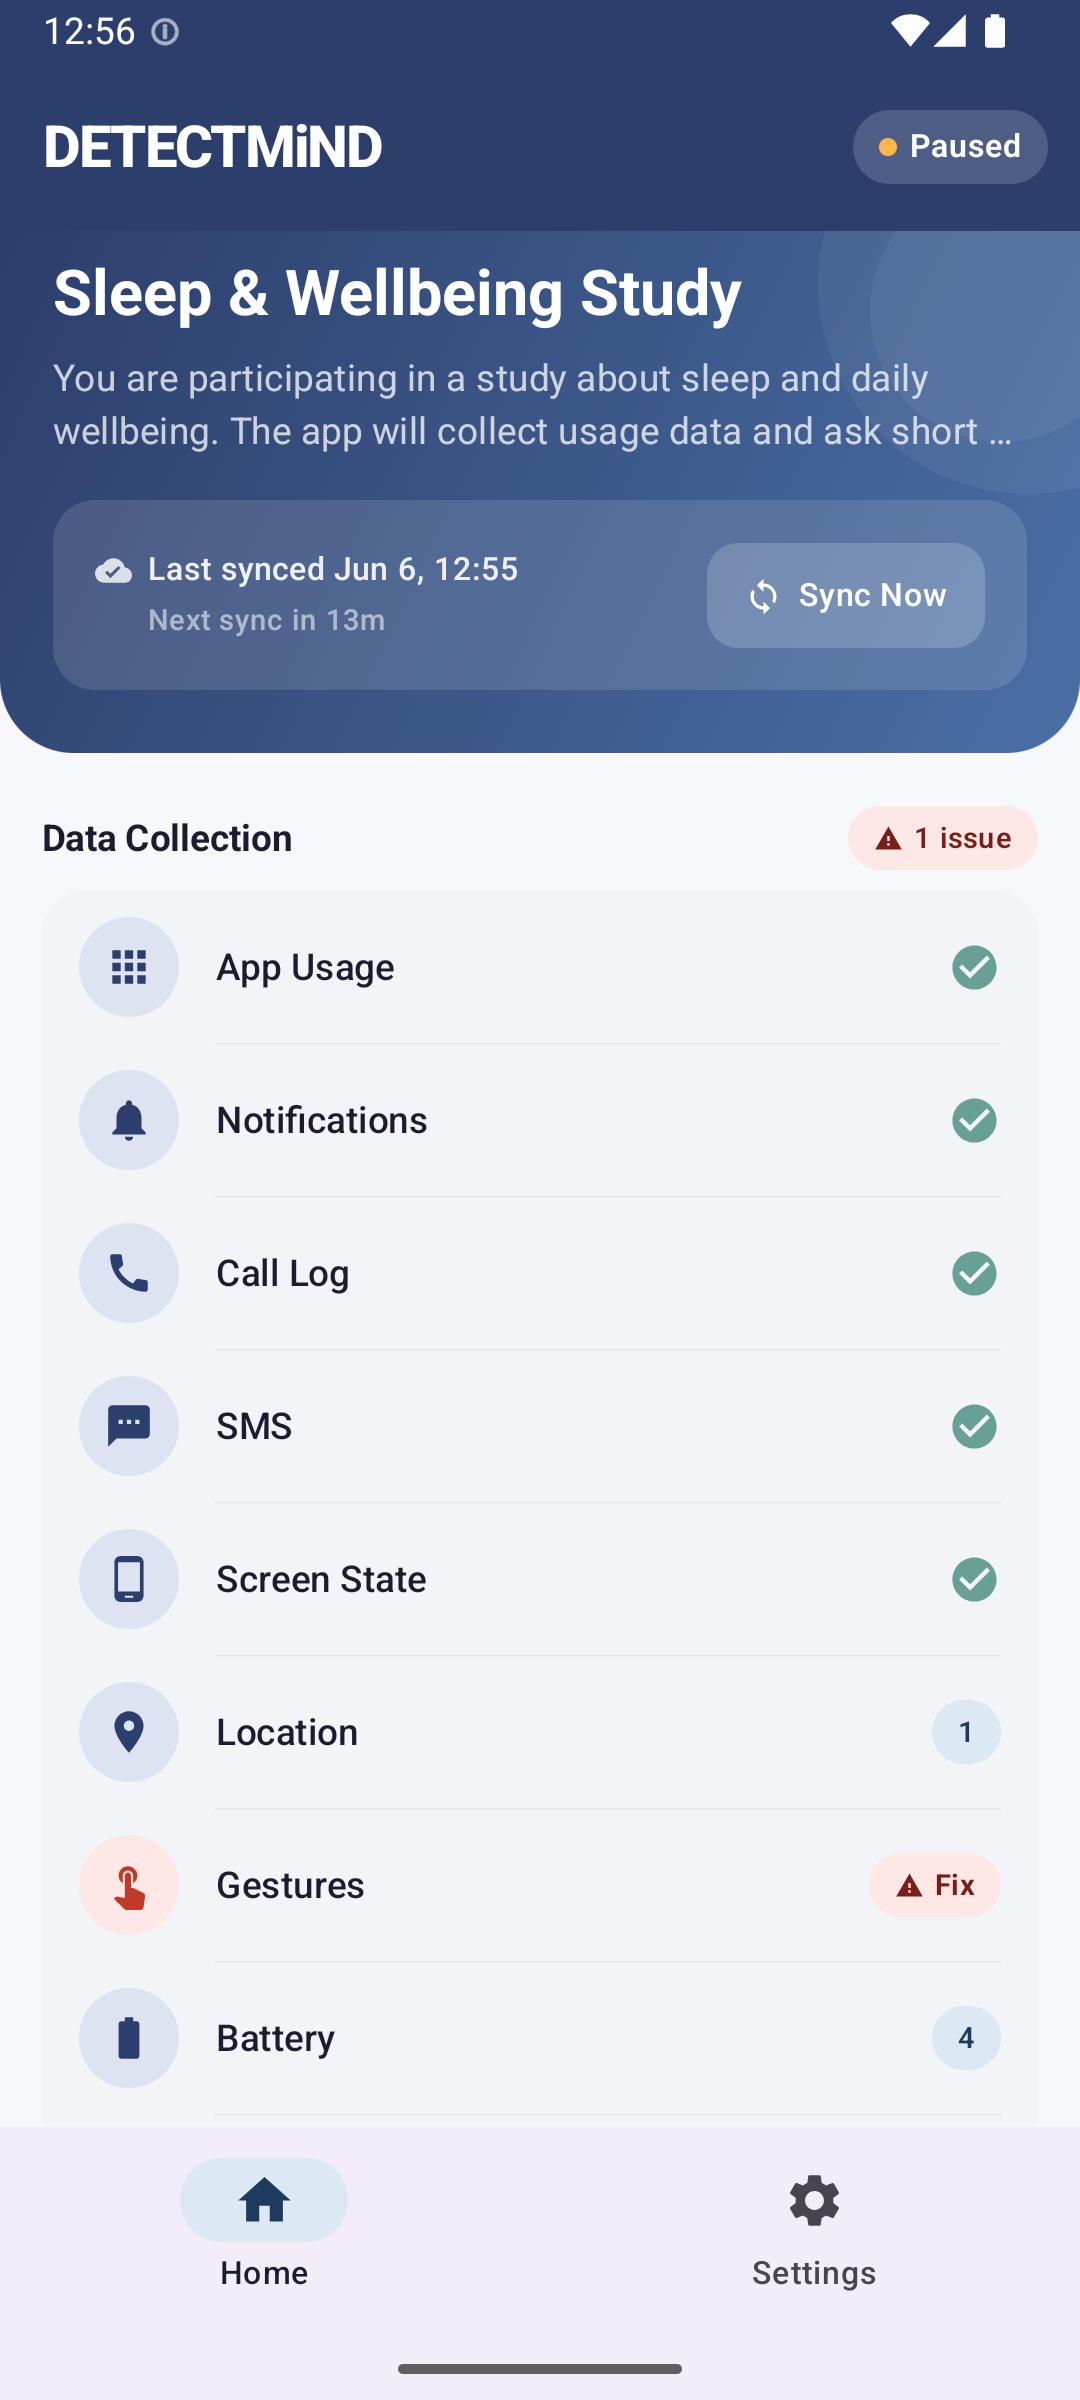
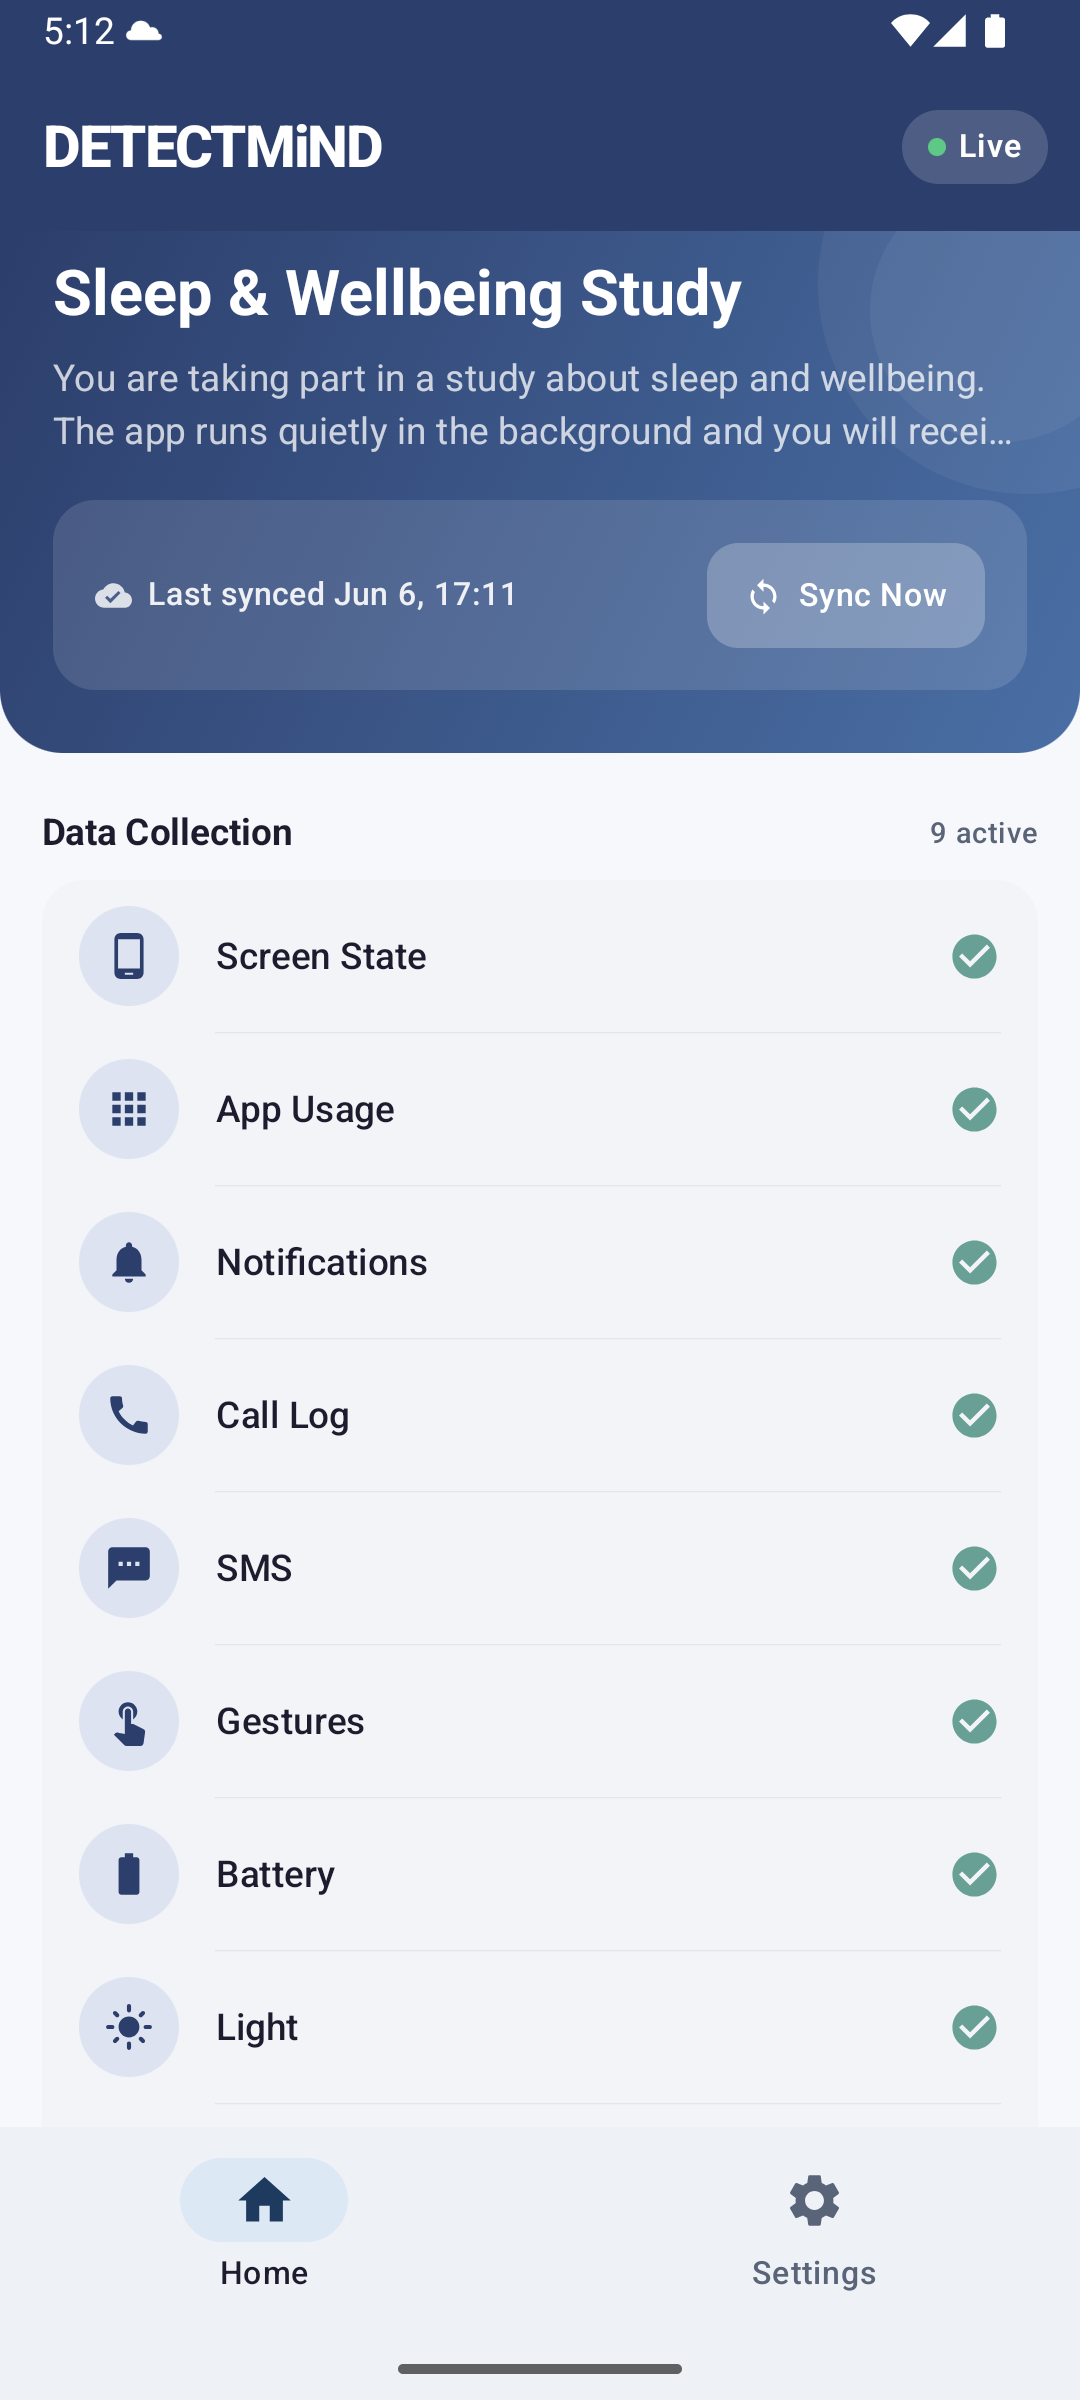
Two screenshots: participant-ID entry + fully-enrolled home view

diff --git a/docs/index.html b/docs/index.html
@@ -193,20 +193,27 @@
     font-style: italic;
   }
 
-  .screenshot {
-    margin: 28px 0 0;
-    text-align: center;
+  .shots {
+    display: grid;
+    grid-template-columns: 1fr 1fr;
+    gap: 20px;
+    margin: 24px 0 0;
   }
-  .screenshot img {
-    max-width: 260px;
+  .shot { text-align: center; }
+  .shot img {
     width: 100%;
+    max-width: 240px;
     border-radius: 18px;
     box-shadow: 0 12px 36px rgba(17, 20, 28, 0.10), 0 2px 8px rgba(17, 20, 28, 0.05);
   }
-  .screenshot-caption {
-    margin-top: 12px;
+  .shot-caption {
+    margin-top: 10px;
     color: var(--muted);
     font-size: 13px;
+    line-height: 1.4;
+  }
+  @media (max-width: 520px) {
+    .shots { grid-template-columns: 1fr; gap: 28px; }
   }
 
   .what-collected a {
@@ -282,9 +289,15 @@
   </ol>
   <p class="after">Once you're set up, the app runs quietly in the background. You don't need to open it again unless asked.</p>
 
-  <div class="screenshot">
-    <img src="assets/screenshot-home.png" alt="DETECTMiND home screen showing the active study and a list of sensors being collected." onerror="this.parentElement.style.display='none'" />
-    <div class="screenshot-caption">What the app looks like after you're set up.</div>
+  <div class="shots">
+    <div class="shot">
+      <img src="assets/screenshot-participant-id.png" alt="Participant ID entry screen with a 6-character code field and Confirm Enrollment button." />
+      <div class="shot-caption">Enter the 6-character code your researcher sent you.</div>
+    </div>
+    <div class="shot">
+      <img src="assets/screenshot-home.png" alt="DETECTMiND home screen showing the active study and all sensors with green check marks." />
+      <div class="shot-caption">Once permissions are granted, the app runs in the background.</div>
+    </div>
   </div>
 
   <hr />